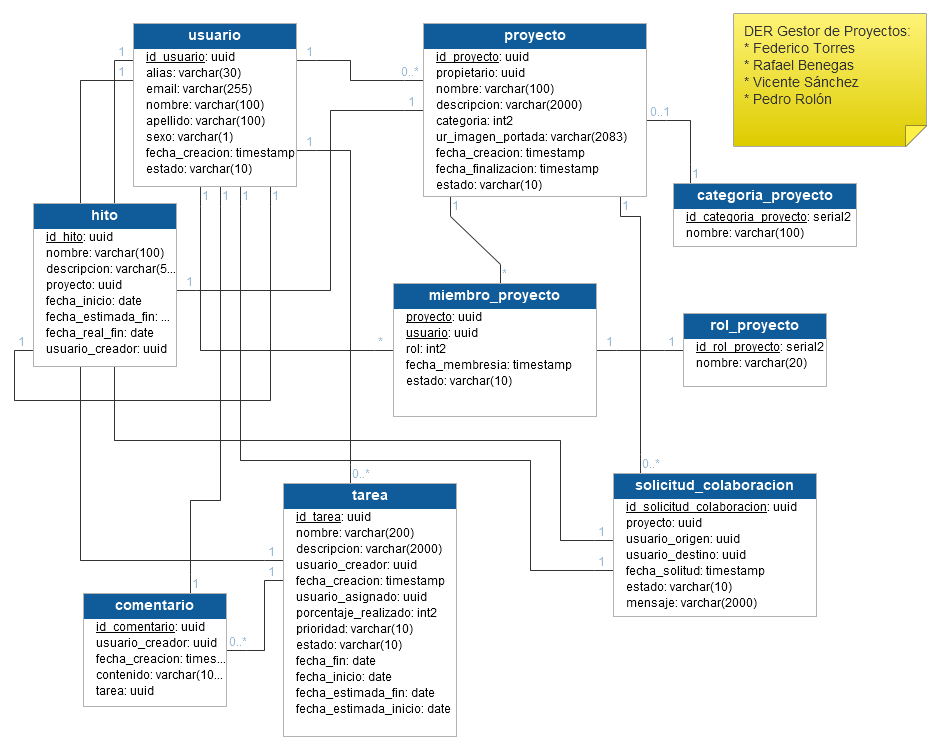
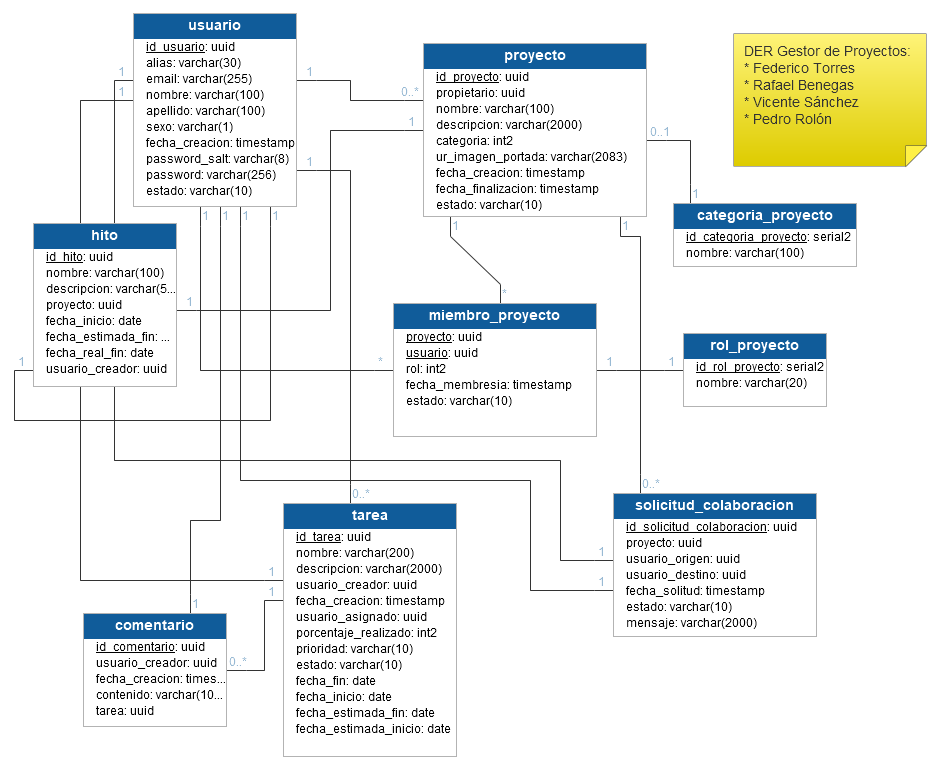
Se actualiza el modelo de base de datos. Modificaciones en la tabla USUARIO

diff --git a/Scripts/Creacion Esquema BD/README.md b/Scripts/Creacion Esquema BD/README.md
@@ -1,0 +1,1 @@
+El archivo proyectos_alpha.ndm se debe abrir con Navicat Premium
